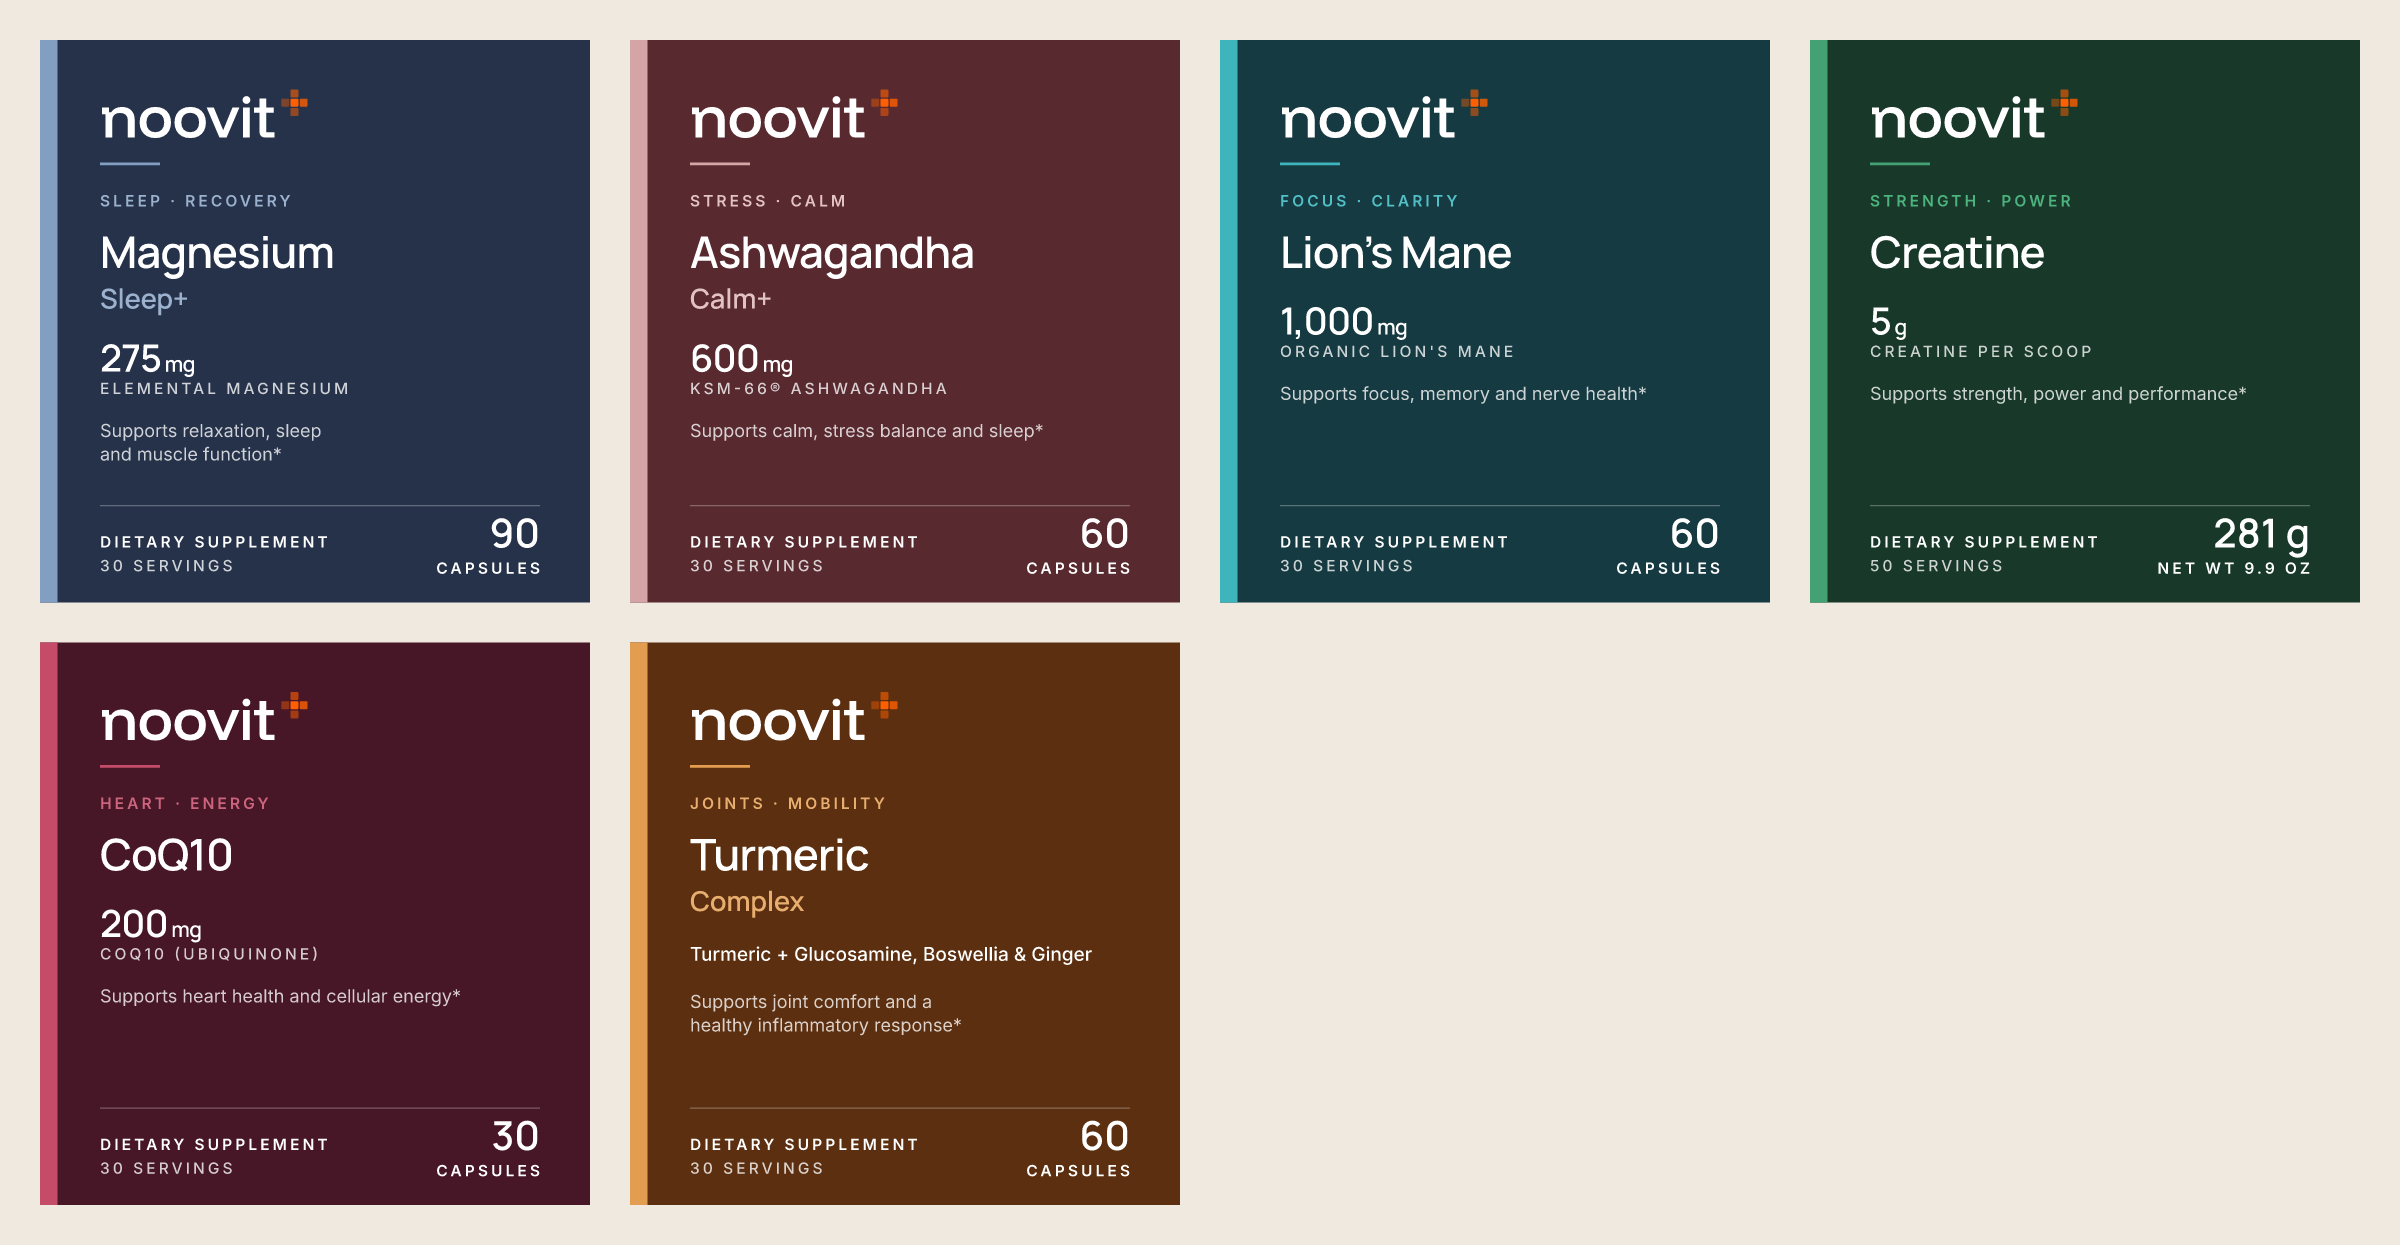
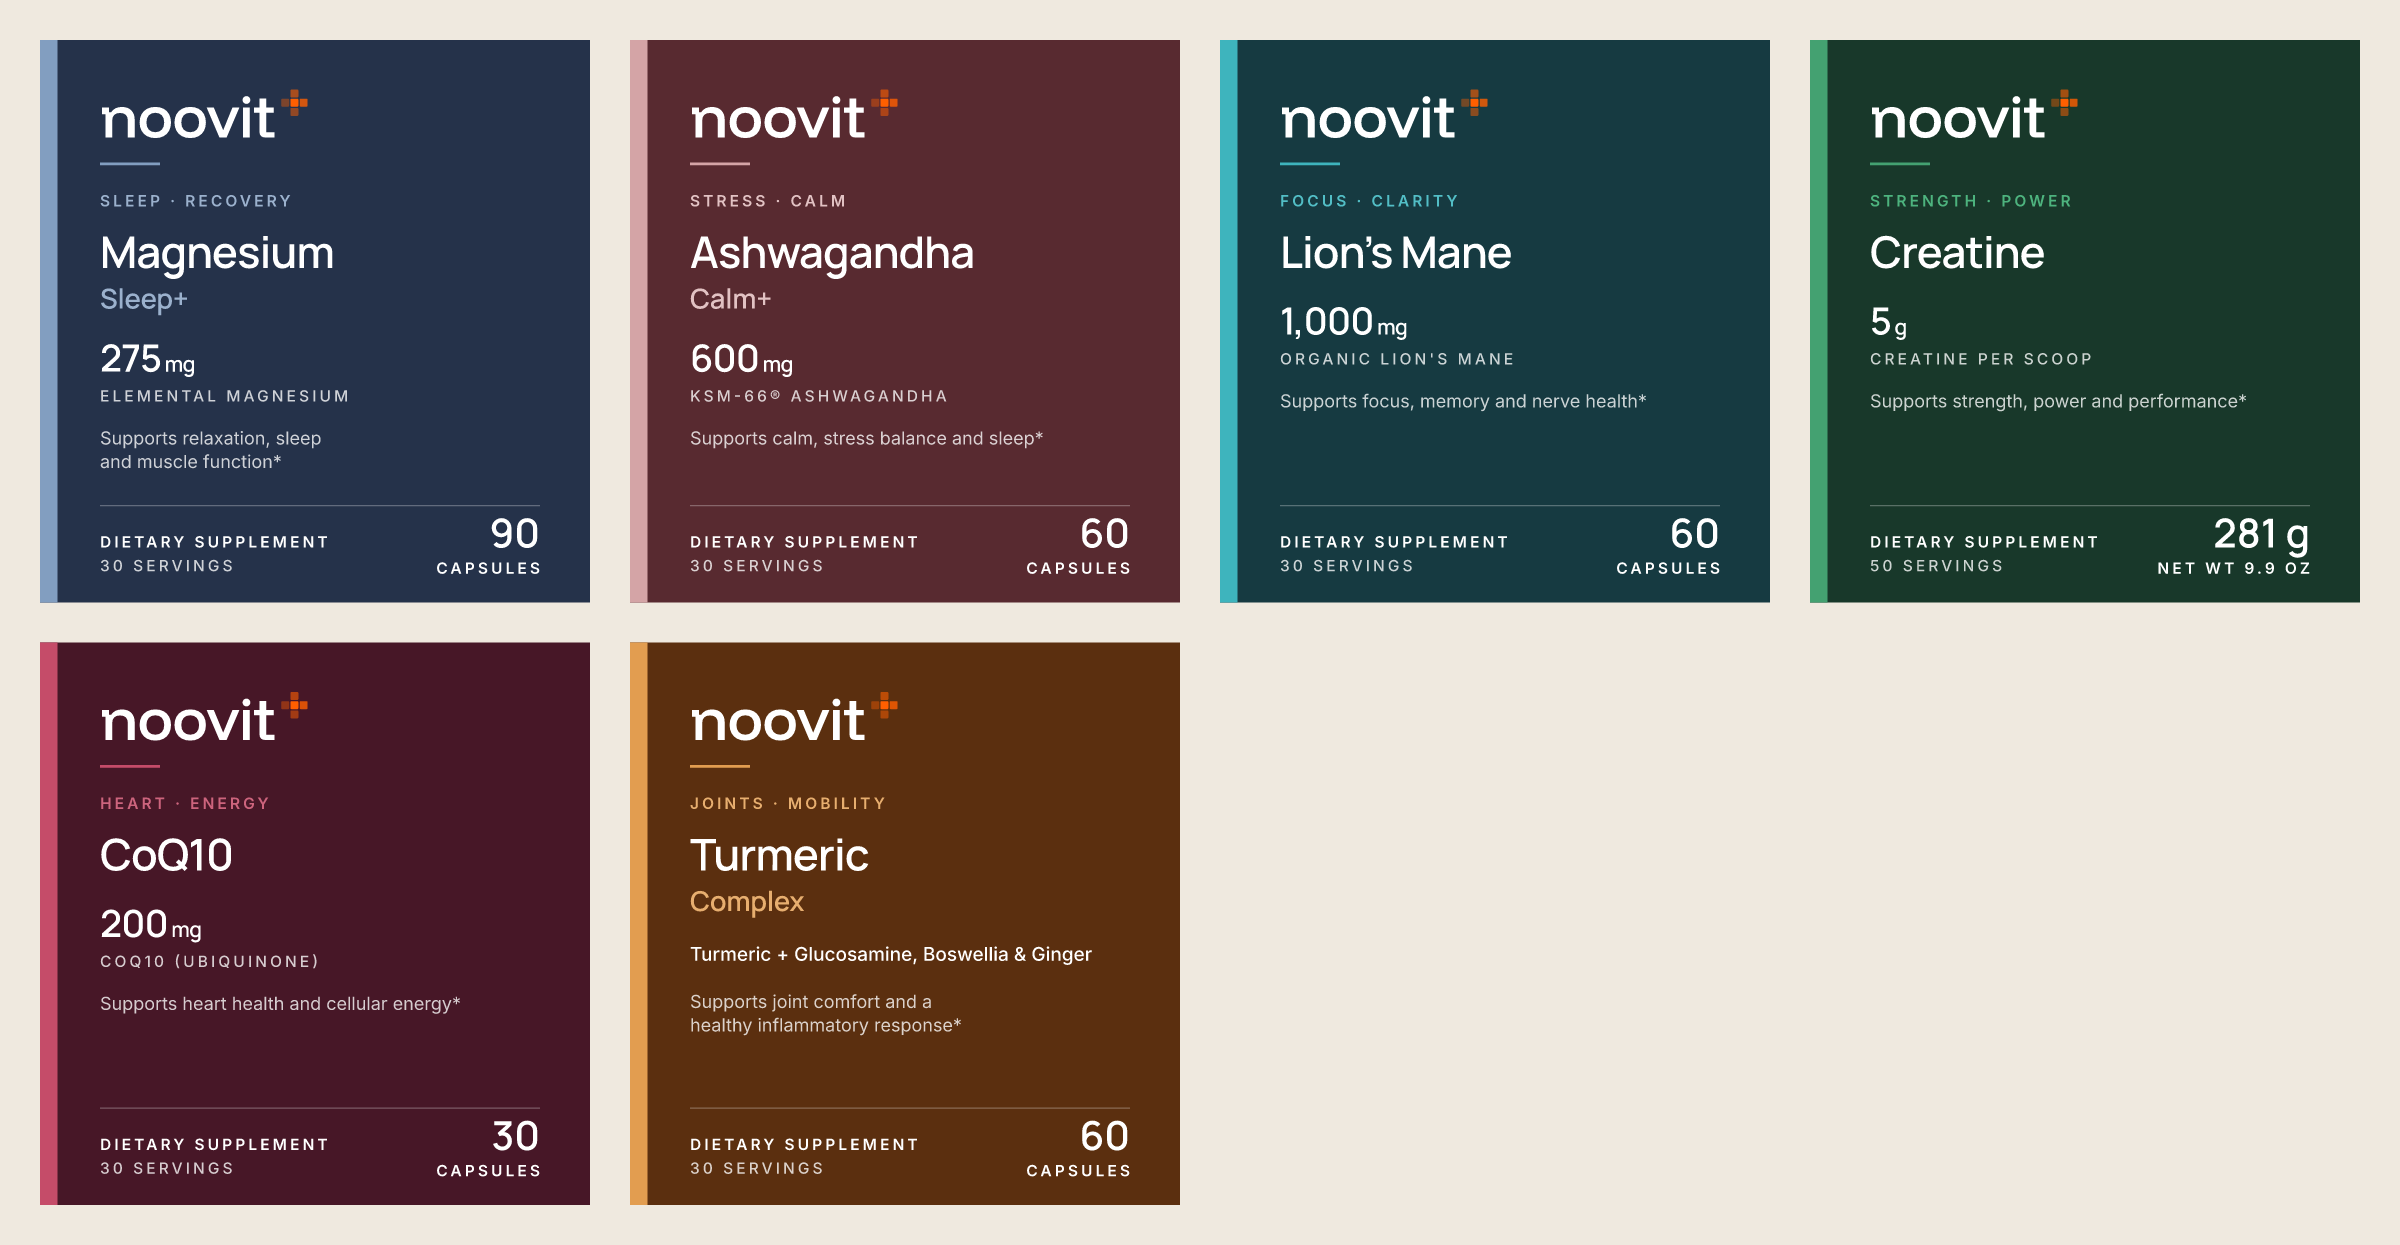
Elegant label: more space between the dose and its caption
Claude-Session: https://claude.ai/code/session_01AgHwmMXyw3TzvCrzNnVa8R

diff --git a/lib/labels/svg.ts b/lib/labels/svg.ts
@@ -661,7 +661,7 @@ export function frontPanelElegant(p: Product, mode: FontMode, bleed = 0, opts: {
   let doseBlock = '';
   if (dose) {
     const y = place(doseSize * CAP, GAP);
-    const yc = place(capsSize * CAP, TIGHT);
+    const yc = place(capsSize * CAP, 7.5); // dose → its caption: more air than TIGHT (owner, 14 Nov)
     doseBlock = `<text x="${n(x0)}" y="${n(y)}" text-anchor="${anchor}" font-size="${doseSize}" font-weight="500" letter-spacing="-0.3" fill="${ink}" ${font('head', mode)}>${esc(dose.value)}<tspan font-size="8.5" font-weight="500" dx="1.3">${esc(dose.unit)}</tspan></text>
       ${caps(yc, doseLine, capsSize, inkSoft)}`;
   } else {
